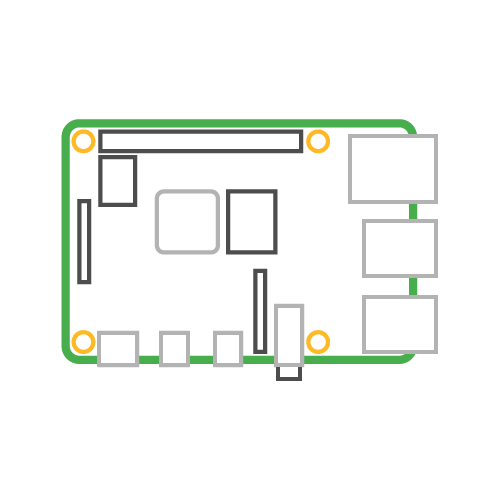
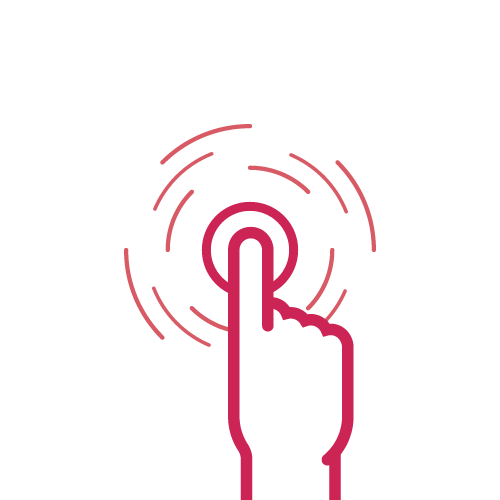
补齐电脑与配件首页卡片，更新桌面版镜像与 Imager 2.0.12

Changed region(s): [[0.12, 0.21, 0.9, 1.0], [0.66, 0.48, 0.69, 0.54]]

diff --git a/src/pages/downloads/operating-systems.js b/src/pages/downloads/operating-systems.js
@@ -268,16 +268,16 @@ const OSConfig = {
             extos: [
                 {
                     title: "Raspberry Pi 桌面 (Debian Trixie)",
-                    download_url: "https://dl.pidoc.cn/rpd_x86/images/rpd_x86-2026-10-06/2026-10-05-raspios-trixie-amd64.iso",
-                    torrent_url: "https://dl.pidoc.cn/rpd_x86/images/rpd_x86-2026-10-06/2026-10-05-raspios-trixie-amd64.iso.torrent",
+                    download_url: "https://dl.pidoc.cn/rpd_x86/images/rpd_x86-2026-10-15/2026-10-13-raspios-trixie-amd64.iso",
+                    torrent_url: "https://dl.pidoc.cn/rpd_x86/images/rpd_x86-2026-10-15/2026-10-13-raspios-trixie-amd64.iso.torrent",
                     archive_url: "https://dl.pidoc.cn/rpd_x86/images/",
                     release_notes_url: "https://dl.pidoc.cn/rpd_x86/images/release_notes.txt",
[1 lines of base64/hex data omitted]
-                    release_date: "2026-10-05",
[1 lines of base64/hex data omitted]
+                    release_date: "2026-10-13",
                     system: "64位",
                     kernel_version: "6.12",
                     debian_version: "13(trixie)",
-                    image_size: "2,616MB",
+                    image_size: "2,637MB",
                 },
             ],
         },

diff --git a/src/pages/downloads/index.js b/src/pages/downloads/index.js
@@ -24,9 +24,9 @@ const DownloadConfig = {
   ubuntu_text: "适用于 Raspberry Pi 的 Ubuntu 操作系统",
   ubuntu_content: 'Raspberry Pi 支持 Ubuntu，开源开发人员可以快速、安全地启动和运行 Raspberry Pi。',
   imager_url: [
-    { os: "Windows", downloadurl: "https://dl.pidoc.cn/imager/imager_2.0.11.1.exe", title: "下载Windows版", showButton: false, },
-    { os: "MacOS", downloadurl: "https://dl.pidoc.cn/imager/imager_2.0.11.1.dmg", title: "下载macOS版", showButton: false, },
-    { os: "Linux", downloadurl: "https://dl.pidoc.cn/imager/imager_2.0.11.1_amd64.AppImage", title: "下载适用于x64的Ubuntu版", showButton: false, }
+    { os: "Windows", downloadurl: "https://dl.pidoc.cn/imager/imager_2.0.12.exe", title: "下载Windows版", showButton: false, },
+    { os: "MacOS", downloadurl: "https://dl.pidoc.cn/imager/imager_2.0.12.dmg", title: "下载macOS版", showButton: false, },
+    { os: "Linux", downloadurl: "https://dl.pidoc.cn/imager/imager_2.0.12_amd64.AppImage", title: "下载适用于x64的Ubuntu版", showButton: false, }
   ],
   manually_url: [
     { os: "All", downloadurl: "/downloads/operating-systems/", title: "查看所有下载选项", showButton: true, },
